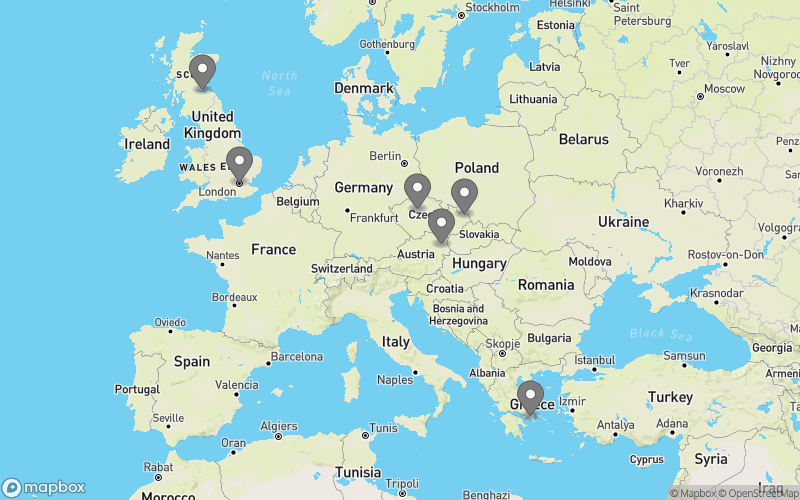
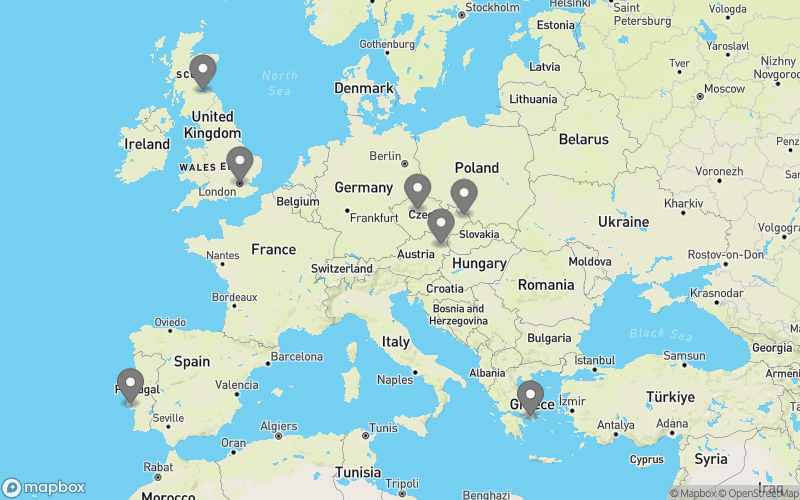
update crossfit map
Lisbon, Philadelphia, St. Louis, San Jose

diff --git a/blorg/crossfit.md b/blorg/crossfit.md
@@ -71,8 +71,12 @@ Home gyms in bold, repeat locations italicized.
 | 2022         | Athens, Greece         | IHPCSS                  |   23.706244, 37.963687 |
 | 2023         | Atlanta, GA            | IHPCSS                  |  -84.389507, 33.779982 |
 | 2024         | Kobe, Japan            | IHPCSS                  |   135.206572,34.703740 |
+| 2025         | Lisbon, Portugal       | IHPCSS                  |   -9.103455, 38.740519 |
+| 2025         | Philadelphia, PA       | US-RSE                  |  -75.147833, 39.930965 |
+| 2025         | St. Louis, MO          | SC                      |  -90.204982, 38.603331 |
+| 2026         | San Jose, CA           | US-RSE                  | -121.908322, 37.322319 |
 |:------------:|:-----------------------|:------------------------|-----------------------:|
-| **11 years** | **3 continents**       | **31 boxes**            |                        |
+| **13 years** | **3 continents**       | **35 boxes**            |                        |
 
 ## URL Request for MapBox Image
 
